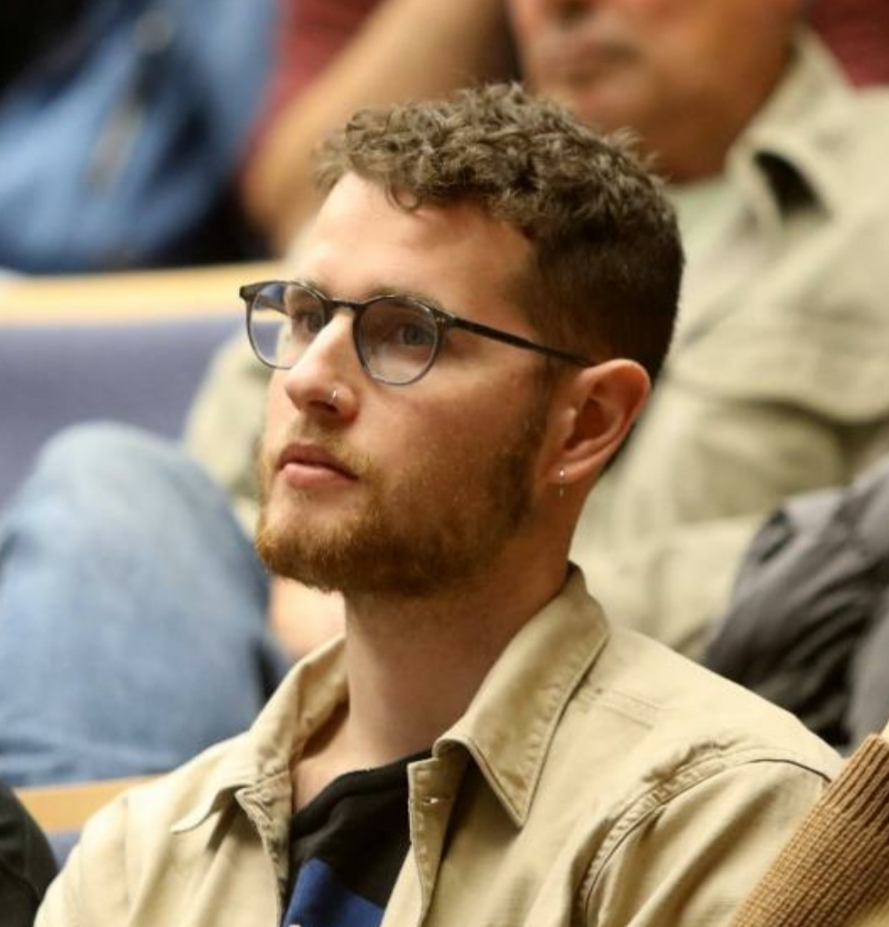
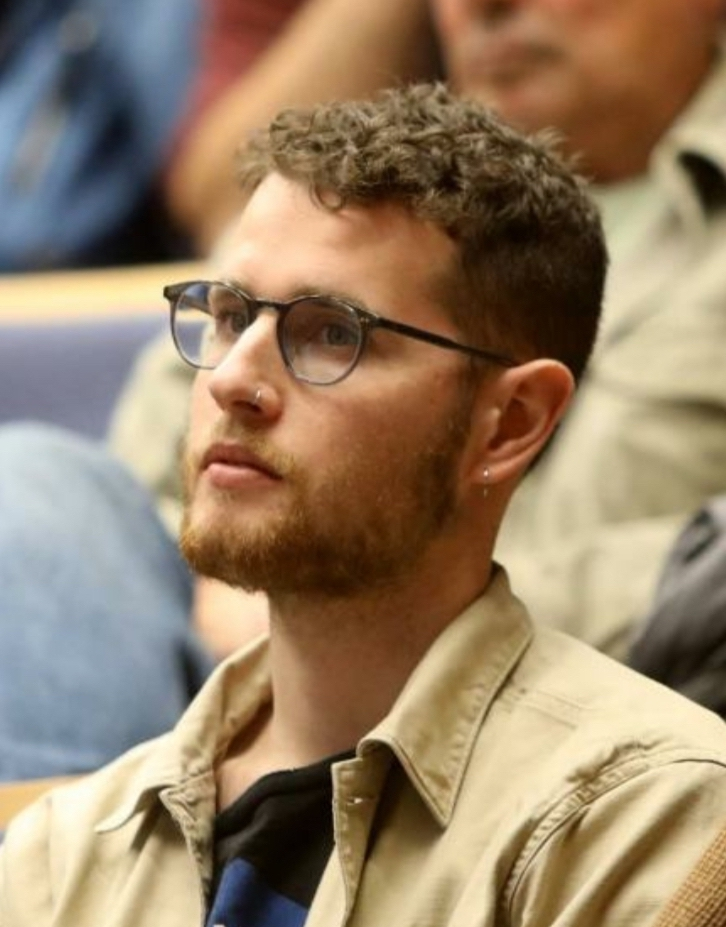
update 2024-2025

diff --git a/_teaching/course_CSB.md b/_teaching/course_CSB.md
@@ -1,22 +1,38 @@
 ---
 title: "Computational Structural Bioinformatics"
 collection: teaching
-type: "Elective Course (Bioinformatics / Life Science undergraduates)"
+type: "Elective Course (Bioinformatics / Life Science undergraduates); Course jointly taught with Prof. Nir Ben Tal."
 permalink: /teaching/course_CSB
 location: "Tel Aviv, Israel"
 venue: "Tel Aviv University, School of Computer Science"
-date: 2024-01-03
+date: 2025-01-03
 ---
 
-[//]: # (## Summary)
+## Summary
+Despite being made up of only ~20 building blocks, proteins have an astounding diversity of shapes and molecular functions. This course is an introduction to Computational Structural Biology - computational methods for studying the link between the sequence, structure and function of biomolecules. After providing background on protein structures, we will present classical and recent algorithms for tackling major structural biology tasks, and demonstrate their applications. 
+The objectives of the course are to: 
+- Study the scientific and algorithmic principles of key tools such as AlphaFold, learn how and when to use them and how to interpret their results. 
+- Deepen our knowledge of protein structures & function. 
+- Study some real-life applications of dynamic programming, deep learning & computer vision algorithms for solving biological problems. 
+- Apply the learned tools during a project on a chosen system of interest. 
 
-[//]: # ()
-[//]: # (## Syllabus)
 
-[//]: # (TBD)
 
-[//]: # ()
-[//]: # (## Course link)
+## Syllabus
 
-[//]: # ()
-[//]: # ([//]: # &#40;[Course number: 0368.4238]&#40;https://www.ims.tau.ac.il/Tal/Syllabus/Syllabus_L.aspx?course=03684238&year=2023&lang=EN&#41;&#41;)
+- Topic 1: Background on proteins & physics of protein folding and function. 
+- Topic 2: Visual analysis of protein structures (Representations of structures; ChimeraX). 
+- Topic 3: Protein Sequence Alignments (Pairwise & Multiple alignments; Substitution matrices; - Dynamic Programming). 
+- Topic 4: Protein Structural Alignments (Kabsch Algorithm; TM-Align; Order-independent alignments). 
+- Topic 5: Homology Search (BLAST/MMSEQS2, profile HMMs, FoldSeek). 
+- Topic 6: Prediction of Protein Structures (Homology modeling; Coevolution; AlphaFold1-2). 
+- Topic 7: Prediction of Biomolecular Interactions (Molecular Docking; AlphaFold3). 
+- Topic 8: Analysis of Protein Motion (Normal Mode Analysis; Molecular Dynamics). 
+- Topic 9: Protein Language Models & Prediction of Protein Function (GO Terms). 
+- Topic 10: Protein Design (Rosetta & Generative Models). 
+- Topic 11: RNA structure prediction & analysis. 
+- Topic 12: Selected research topics by the lecturers. 
+
+
+## Course link
+[Course number: 0368.3105](https://www.ims.tau.ac.il/Tal/Syllabus/Syllabus_L.aspx?course=0368310501&year=2024&lang=EN)

diff --git a/_pages/group.md b/_pages/group.md
@@ -12,22 +12,25 @@ redirect_from:
 
 <table style="border: none; border-collapse: collapse; border-spacing: 0; margin: 0; padding: 0;">
   <colgroup>
-    <col width="30%">
-    <col width="30%">
-    <col width="30%">
+    <col width="20%">
+    <col width="20%">
+    <col width="20%">
+    <col width="20%">
+    <col width="20%">
   </colgroup>  
   <tr style="border: none;">
     <td style="border: none;"> <img src="/images/self/group/omriyakir.jpg" style="width:100%"> </td> 
-    <td style="border: none;"> </td>
-    <td style="border: none;"> </td>
-    <td style="border: none;">  <img src="images/self/group/AnnaBerdichevskaia.jpg" style="width:33%"> </td> 
-    <td style="border: none;">  <img src="images/self/group/AlmogBoaron.jpg" style="width:50%"> </td> 
+    <td style="border: none;"> <img src="/images/self/group/daniel_brotzky.jpg" style="width:100%"> </td> 
+    <td style="border: none;"> <img src="/images/self/group/hagai_ravid.jpg" style="width:100%"> </td> 
+    <td style="border: none;">  <img src="/images/self/group/AnnaBerdichevskaia_small.jpg" style="width:100%"> </td> 
+    <td style="border: none;">  <img src="/images/self/group/almog_boaron_small.jpg" style="width:100%"> </td> 
   </tr>
 <tr style="border: none;">
   <td style="border: none;"> <p style="text-align: center; font-size: 20px;">Omri Yakir (M.Sc.)</p> </td>
-  <td style="border: none;"> <p style="text-align: center; font-size: 20px">Daniel Brotzky (M.Sc.)<br> Joint with Haim Wolfson</p> </td>
-  <td style="border: none;"> <p style="text-align: center; font-size: 20px">Hagai Ravid (M.Sc.)<br> Joint with Haim Wolfson</p> </td>
-  <td style="border: none;"> <p style="text-align: center; font-size: 20px">Almog Boaron (M.Sc.)<br> Joint with Haim Wolfson</p> </td>
-  <td style="border: none;"> <p style="text-align: center; font-size: 20px">Anna Berdichevskaia (M.Sc.)</p> </td>  
+  <td style="border: none;"> <p style="text-align: center; font-size: 20px">Daniel Brotzky (M.Sc.)<br> Joint with Prof. Haim Wolfson</p> </td>
+  <td style="border: none;"> <p style="text-align: center; font-size: 20px">Hagai Ravid (M.Sc.)<br> Joint with Prof. Haim Wolfson</p> </td>
+<td style="border: none;"> <p style="text-align: center; font-size: 20px">Anna Berdichevskaia (M.Sc.)</p> </td>  
+  <td style="border: none;"> <p style="text-align: center; font-size: 20px">Almog Boaron (M.Sc.)<br> Joint with Prof. Haim Wolfson</p> </td>
+
   </tr>
 </table>

diff --git a/_teaching/course_IML.md b/_teaching/course_IML.md
@@ -1,0 +1,37 @@
+---
+title: "Introduction to Machine Learning"
+collection: teaching
+type: "Compulsory Course (Computer Science undergraduates)"
+permalink: /teaching/course_IML
+location: "Tel Aviv, Israel"
+venue: "Tel Aviv University, School of Computer Science"
+date: 2024-01-11
+---
+
+## Summary
+This course provides a basic introduction to machine learning (namely the field of computer science studying algorithms that learn from examples). This field underlies modern applications of AI, including machine vision, natural language processing, autonomous driving and others. 
+The course will provide the theoretical foundations for understanding learning algorithms, describe different algorithms, and provide practical experience. Some of the topics studies are: 
+- Supervised learning: PAC learning, VC dimension, perceptron, SVM, stochastic gradient descent, boosting, deep learning and decision trees 
+- Unsupervised learning: principal component analysis, clustering, EM algorithm 
+
+The course comprises both theory and practice, with special emphasis on different machine learning algorithms. Theoretical topics are mathematical in nature; practical exercises are based on Python. 
+
+## Syllabus
+
+- Introduction to the course and to machine learning.
+- Probably-approximately-correct (PAC) learning model.
+- Generalization bounds; VC dimension; Bias-variance tradeoff; Model selection.
+- Convex optimization & Gradient Descent; Surrogate loss functions;  Stochastic Gradient Descent.
+- Support vector machines (SVM) & Kernels.
+- Regularization; Regression; Feature Selection.
+- Probabilistic classifiers & Multi-class Classifiers; Performance Metrics. 
+- Decision trees, Bagging.
+- Boosting; Online learning.
+- Deep Learning (MLP; Backpropagation).
+- Principal Component Analysis & Clustering.
+- Generative Models; Gaussian Mixture Model (GMM) and Expectation Maximization (EM).
+- Summary, supplements.
+
+
+## Course link
+[Course number: 0368.3235](https://www.ims.tau.ac.il/Tal/Syllabus/Syllabus_L.aspx?course=0368323501&year=2024&lang=EN)

diff --git a/_teaching/course_CG.md b/_teaching/course_CG.md
@@ -1,0 +1,22 @@
+---
+title: "Computational Genomics"
+collection: teaching
+type: "Compulsory Course (Bioinformatics undergraduates); Course jointly taught with Prof. David Burstein and Prof. Irit Gat-Viks."
+permalink: /teaching/course_CG
+location: "Tel Aviv, Israel"
+venue: "Tel Aviv University, School of Computer Science"
+date: 2024-01-11
+---
+
+## Summary
+Biological and medical research has undergone a revolution following the Human Genome Project: First, a single genome was sequenced, and today tens of thousands of human genomes are sequenced every year. At the same time a huge number of genomes of other species (animals, plants, bacteria, viruses) are sequenced. State-of-the-art experimental technologies are evolving and producing information that enables revealing revolutionary insights that will impact our lives, our health and the world around us. Making use of these technologies and analyzing their experimental results requires advanced computational methods. To a large extent the bottleneck of the analysis has shifted from the production of the data to its analysis. 
+
+The course will discuss algorithms for major computational problems in biology and medicine. We will learn precise algorithms for problems that can be solved exactly and efficiently, and approximation algorithms and heuristics for more difficult problems. Biological examples will be presented for each problem. The computational methods combine methodologies from algorithms, complexity, graph theory, probability, statistics, optimization, machine learning and more. Details of the topics to be studied are displayed on the course website. 
+
+
+## Syllabus
+
+
+
+## Course link
+[Course number: 0368.3102](https://www.ims.tau.ac.il/Tal/Syllabus/Syllabus_L.aspx?course=0368310201&year=2024&lang=EN)

diff --git a/_teaching/course_MLCB.md b/_teaching/course_MLCB.md
@@ -5,7 +5,7 @@ type: "Elective Course (CS/Bioinformatics M.Sc. open to undergraduates)"
 permalink: /teaching/course_MLCB
 location: "Tel Aviv, Israel"
 venue: "Tel Aviv University, School of Computer Science"
-date: 2024-01-03
+date: 2025-01-03
 ---
 
 ## Summary
@@ -25,4 +25,4 @@ The algorithms will be illustrated on various biological systems (brain recordin
 - Topic 8: Generative models (latent variable models, diffusion models).
 
 ## Course link
-[Course number: 0368.4238](https://www.ims.tau.ac.il/Tal/Syllabus/Syllabus_L.aspx?course=03684238&year=2023&lang=EN)
+[Course number: 0368.4238](https://www.ims.tau.ac.il/Tal/Syllabus/Syllabus_L.aspx?course=0368423801&year=2024&lang=EN)
